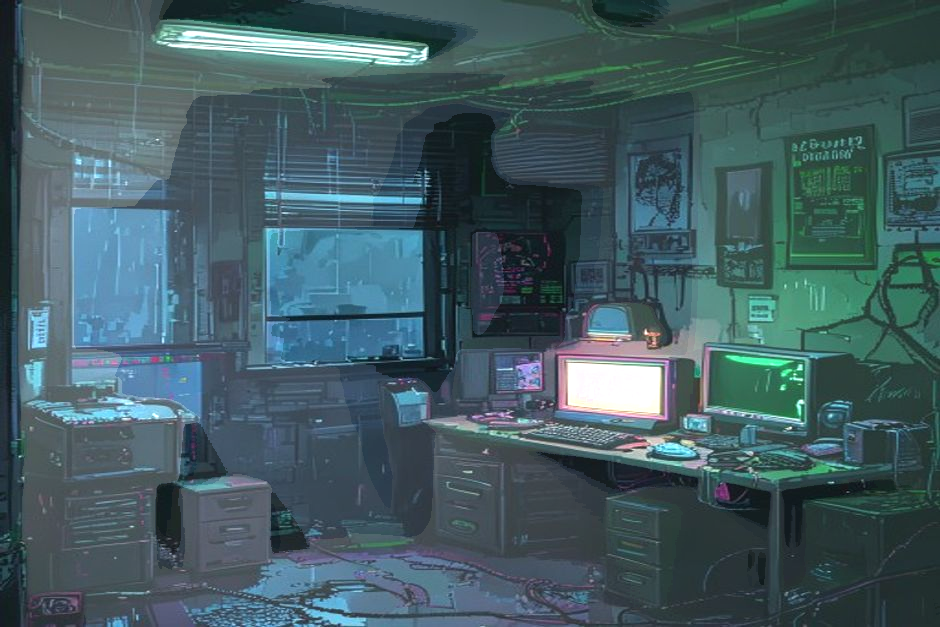
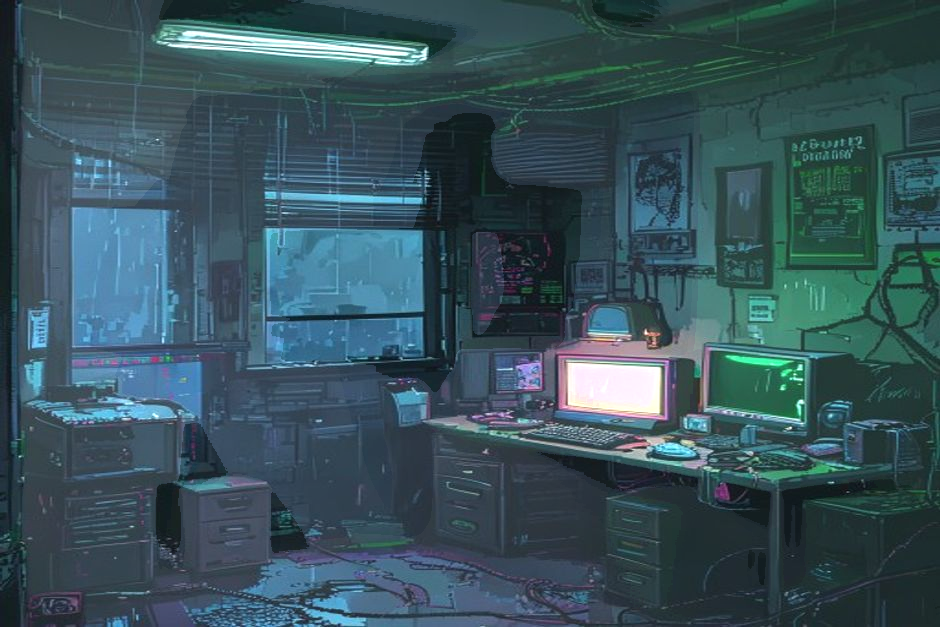
fix: lower car headlight intensity for smoother loop closure
- apartment car1: 0.2 → 0.08, car2: 0.1 → 0.04
- street car: 0.15 → 0.06
- loop closure diff: 9.14 → 4.34

Changed region(s): [[0.0, 0.0303, 0.4011, 0.697]]

diff --git a/gen_depth_lighting.py b/gen_depth_lighting.py
@@ -121,10 +121,10 @@ SCENE_LIGHTS = {
              "color": [0.55, 0.65, 0.85], "intensity": (0.08, 0.22),
              "radius": 600, "phase": _moonlight_clouds},
             {"name": "car1", "pos": (60, 220),
-             "color": [1.0, 0.92, 0.7], "intensity": (0.0, 0.2),
+             "color": [1.0, 0.92, 0.7], "intensity": (0.0, 0.08),
              "radius": 500, "phase": _irregular_car},
             {"name": "car2", "pos": (200, 180),
-             "color": [1.0, 0.85, 0.6], "intensity": (0.0, 0.1),
+             "color": [1.0, 0.85, 0.6], "intensity": (0.0, 0.04),
              "radius": 450, "phase": _phase_shift(_irregular_car, 3)},
             {"name": "screen", "pos": (770, 320),
              "color": [0.15, 0.7, 0.25], "intensity": (0.03, 0.18),
@@ -150,7 +150,7 @@ SCENE_LIGHTS = {
              "radius": 350, "phase": _phase_shift(_flicker, 4)},
             # 远处车灯
             {"name": "car", "pos": (480, 500),
-             "color": [1.0, 0.95, 0.8], "intensity": (0.0, 0.15),
+             "color": [1.0, 0.95, 0.8], "intensity": (0.0, 0.06),
              "radius": 500, "phase": _irregular_car},
             # 地面积水反射（来自多个霓虹）
             {"name": "puddle", "pos": (480, 580),
